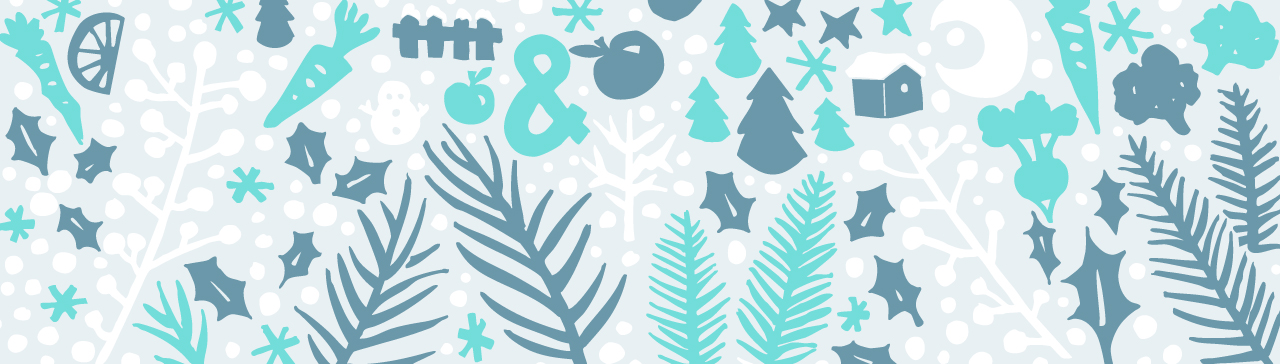
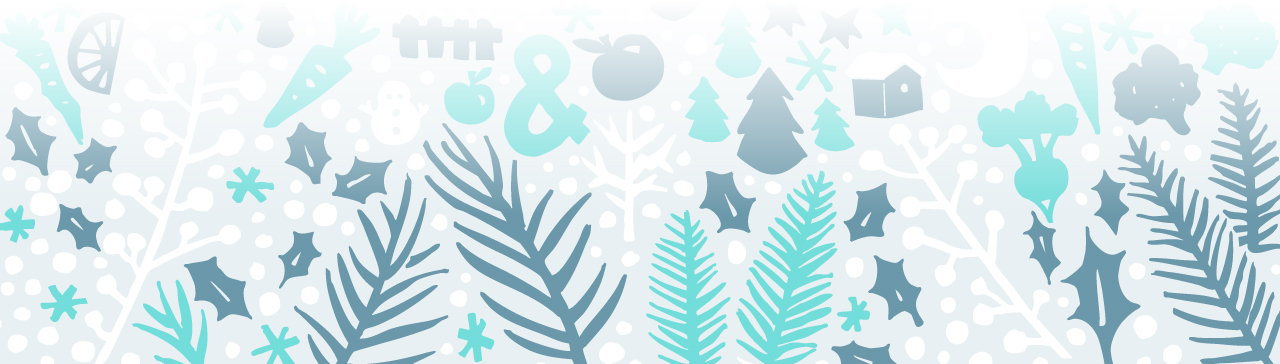
fix(profile): fix profile background for winter
Using a faded image rather than fading it myself

diff --git a/app/Domains/Profile/Private/Resources/views/pages/show.blade.php b/app/Domains/Profile/Private/Resources/views/pages/show.blade.php
@@ -3,7 +3,7 @@
     <div class="overflow-hidden">
         <!-- Profile Header -->
         <div class="bg-profile-seasonal sm:bg-profile-seasonal-big">
-            <div class="bg-read/30 px-2 sm:px-8 py-4 sm:py-8 flex items-center gap-2 sm:gap-4">
+            <div class="px-2 sm:px-8 py-4 sm:py-8 flex items-center gap-2 sm:gap-4">
                 <!-- Profile Picture -->
                 <div class="flex-shrink-0">
                     <x-shared::avatar :src="$profile->profile_picture_path"
